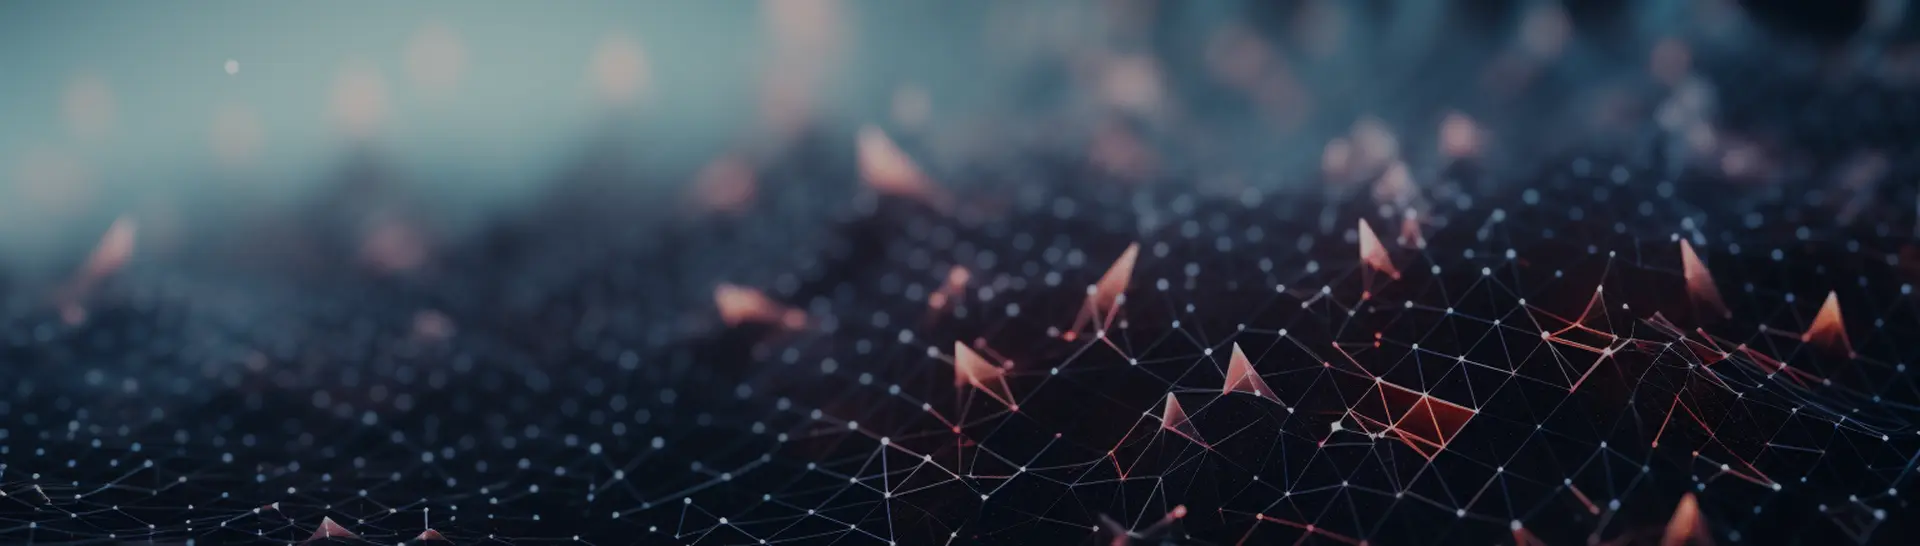
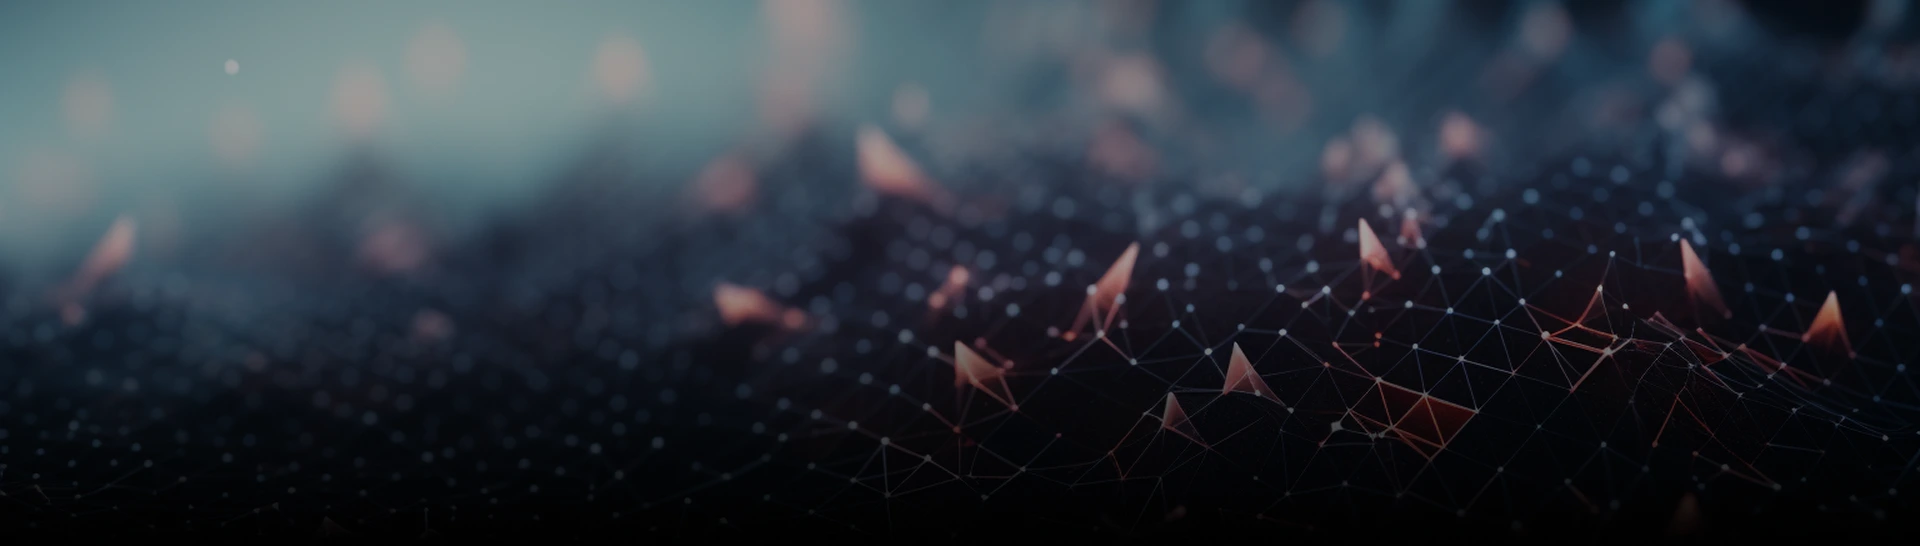
style: 모델 추론서비스 배경 수정 [S12P31S109-254]

diff --git a/fe/sesim/src/pages/ModelInferenceServicePage.tsx b/fe/sesim/src/pages/ModelInferenceServicePage.tsx
@@ -10,6 +10,7 @@ import { AnimatedButton } from "../components/common/AnimatedButton";
 import { AiImage } from "../components/ModelInferenceService/AiImage";
 import PageBackground from "../assets/images/model-inference-service-bg.webp";
 import { PageTitleImageWithText } from "../components/common/PageTitleImageWithText";
+import BackgroundImage from "../assets/images/model-inference-service-content-bg.webp";
 import { ServiceDescriptionList } from "../components/ModelInferenceService/ServiceDescriptionList";
 
 export const ModelInferenceServicePage: React.FC = () => {
@@ -47,87 +48,88 @@ export const ModelInferenceServicePage: React.FC = () => {
                 description2="AI 모델을 선택하고, 내 인프라에 자동 배포하세요."
                 backgroundImage={PageBackground}
             />
-
-            <motion.div
-                className="container-padding w-full text-white py-[44px]"
-                initial={{ opacity: 0, y: 70 }}
-                animate={{ opacity: 1, y: 0 }}
-                transition={{ duration: 1, ease: "easeOut" }}
-            >
+            <div className="bg-cover bg-center bg-no-repeat" style={{ backgroundImage: `url(${BackgroundImage})` }}>
                 <motion.div
-                    className="flex flex-col items-center gap-[15px]"
+                    className="container-padding w-full text-white py-[44px]"
                     initial={{ opacity: 0, y: 70 }}
                     animate={{ opacity: 1, y: 0 }}
-                    transition={{ duration: 1, delay: 0.2, ease: "easeOut" }}
+                    transition={{ duration: 1, ease: "easeOut" }}
                 >
-                    <BlueCircle />
-                    <h1 className="text-[24px] md:text-[32px] lg:text-[37px] font-bold">모델 추론 서비스</h1>
-                </motion.div>
+                    <motion.div
+                        className="flex flex-col items-center gap-[15px]"
+                        initial={{ opacity: 0, y: 70 }}
+                        animate={{ opacity: 1, y: 0 }}
+                        transition={{ duration: 1, delay: 0.2, ease: "easeOut" }}
+                    >
+                        <BlueCircle />
+                        <h1 className="text-[24px] md:text-[32px] lg:text-[37px] font-bold">모델 추론 서비스</h1>
+                    </motion.div>
 
-                <motion.div
-                    className="flex flex-col md:flex-row justify-center items-center gap-[30px] md:gap-[60px] mt-[20px] md:mt-[40px]"
-                    initial={{ opacity: 0, y: 70 }}
-                    animate={{ opacity: 1, y: 0 }}
-                    transition={{ duration: 1, delay: 0.4, ease: "easeOut" }}
-                >
-                    {/* 왼쪽: 설명 및 버튼 */}
                     <motion.div
-                        className="flex flex-col gap-[15px] md:gap-[30px]"
-                        initial={{ opacity: 0, x: -70 }}
-                        animate={{ opacity: 1, x: 0 }}
-                        transition={{ duration: 1, delay: 0.6, ease: "easeOut" }}
+                        className="flex flex-col md:flex-row justify-center items-center gap-[30px] md:gap-[60px] mt-[20px] md:mt-[40px]"
+                        initial={{ opacity: 0, y: 70 }}
+                        animate={{ opacity: 1, y: 0 }}
+                        transition={{ duration: 1, delay: 0.4, ease: "easeOut" }}
                     >
-                        <p className="text-[18px] md:text-[20px] lg:text-[22px] font-normal">
-                            SESIM이 제공하는 다양한 보안 AI 모델 중 원하는 모델을 선택하고,
-                            <br />
-                            VPC(개인망)에 안전하게 설치할 수 있습니다.
-                        </p>
+                        {/* 왼쪽: 설명 및 버튼 */}
                         <motion.div
-                            className="flex flex-col gap-[10px] md:gap-[15px]"
-                            initial={{ opacity: 0, y: 70 }}
-                            animate={{ opacity: 1, y: 0 }}
-                            transition={{ duration: 1, delay: 0.8, ease: "easeOut" }}
+                            className="flex flex-col gap-[15px] md:gap-[30px]"
+                            initial={{ opacity: 0, x: -70 }}
+                            animate={{ opacity: 1, x: 0 }}
+                            transition={{ duration: 1, delay: 0.6, ease: "easeOut" }}
                         >
-                            <ServiceDescriptionList
-                                title="모델 선택"
-                                description="이상행위 탐지, 계정 도용 방지 등 다양한 보안 AI 모델을 제공합니다."
-                            />
-                            <ServiceDescriptionList
-                                title="배포 환경 구성"
-                                description="모델을 설치할 서버 사양을 직접 지정할 수 있습니다."
-                            />
-                            <ServiceDescriptionList
-                                title="IAM Role 기반 배포"
-                                description="사용자가 제공한 IAM Role 정보를 통해 사내 클라우드 환경에 안전하게 접근합니다."
-                            />
-                            <ServiceDescriptionList
-                                title="실시간 모니터링 및 대시보드"
-                                description="AI 모델이 탐지한 이상 행위 결과는 Grafana 대시보드를 통해 실시간 시각화됩니다."
-                            />
+                            <p className="text-[18px] md:text-[20px] lg:text-[22px] font-normal">
+                                SESIM이 제공하는 다양한 보안 AI 모델 중 원하는 모델을 선택하고,
+                                <br />
+                                VPC(개인망)에 안전하게 설치할 수 있습니다.
+                            </p>
+                            <motion.div
+                                className="flex flex-col gap-[10px] md:gap-[15px]"
+                                initial={{ opacity: 0, y: 70 }}
+                                animate={{ opacity: 1, y: 0 }}
+                                transition={{ duration: 1, delay: 0.8, ease: "easeOut" }}
+                            >
+                                <ServiceDescriptionList
+                                    title="모델 선택"
+                                    description="이상행위 탐지, 계정 도용 방지 등 다양한 보안 AI 모델을 제공합니다."
+                                />
+                                <ServiceDescriptionList
+                                    title="배포 환경 구성"
+                                    description="모델을 설치할 서버 사양을 직접 지정할 수 있습니다."
+                                />
+                                <ServiceDescriptionList
+                                    title="IAM Role 기반 배포"
+                                    description="사용자가 제공한 IAM Role 정보를 통해 사내 클라우드 환경에 안전하게 접근합니다."
+                                />
+                                <ServiceDescriptionList
+                                    title="실시간 모니터링 및 대시보드"
+                                    description="AI 모델이 탐지한 이상 행위 결과는 Grafana 대시보드를 통해 실시간 시각화됩니다."
+                                />
+                            </motion.div>
+                            <motion.div
+                                initial={{ opacity: 0, y: 70 }}
+                                animate={{ opacity: 1, y: 0 }}
+                                transition={{ duration: 1, delay: 1, ease: "easeOut" }}
+                            >
+                                <AnimatedButton
+                                    text="프로젝트 생성하기"
+                                    link=""
+                                    width="250px"
+                                    onClick={handleCreateProject}
+                                />
+                            </motion.div>
                         </motion.div>
+                        {/* 오른쪽: 이미지 */}
                         <motion.div
-                            initial={{ opacity: 0, y: 70 }}
-                            animate={{ opacity: 1, y: 0 }}
-                            transition={{ duration: 1, delay: 1, ease: "easeOut" }}
+                            initial={{ opacity: 0, x: 70 }}
+                            animate={{ opacity: 1, x: 0 }}
+                            transition={{ duration: 1, delay: 0.6, ease: "easeOut" }}
                         >
-                            <AnimatedButton
-                                text="프로젝트 생성하기"
-                                link=""
-                                width="250px"
-                                onClick={handleCreateProject}
-                            />
+                            <AiImage />
                         </motion.div>
-                    </motion.div>
-                    {/* 오른쪽: 이미지 */}
-                    <motion.div
-                        initial={{ opacity: 0, x: 70 }}
-                        animate={{ opacity: 1, x: 0 }}
-                        transition={{ duration: 1, delay: 0.6, ease: "easeOut" }}
-                    >
-                        <AiImage />
                     </motion.div>
                 </motion.div>
-            </motion.div>
+            </div>
 
             <LoginModal
                 isOpen={isLoginModalOpen}

diff --git a/fe/sesim/src/components/Footer/Footer.tsx b/fe/sesim/src/components/Footer/Footer.tsx
@@ -5,7 +5,7 @@ export const Footer = () => {
     const location = useLocation();
 
     return (
-        <div className={`${location.pathname === "/ai-model" ? "bg-black" : ""}`}>
+        <div className={`${location.pathname === "/ai-model" || location.pathname === "/model-inference-service" ? "bg-black" : ""}`}>
             <div className="border-t-2 border-white/20 mt-auto px-4 md:px-[68px] py-2 md:py-[17px]">
                 <div className="text-white/60 flex flex-col gap-2 md:gap-4">
                     <SesimLogoFooter />
